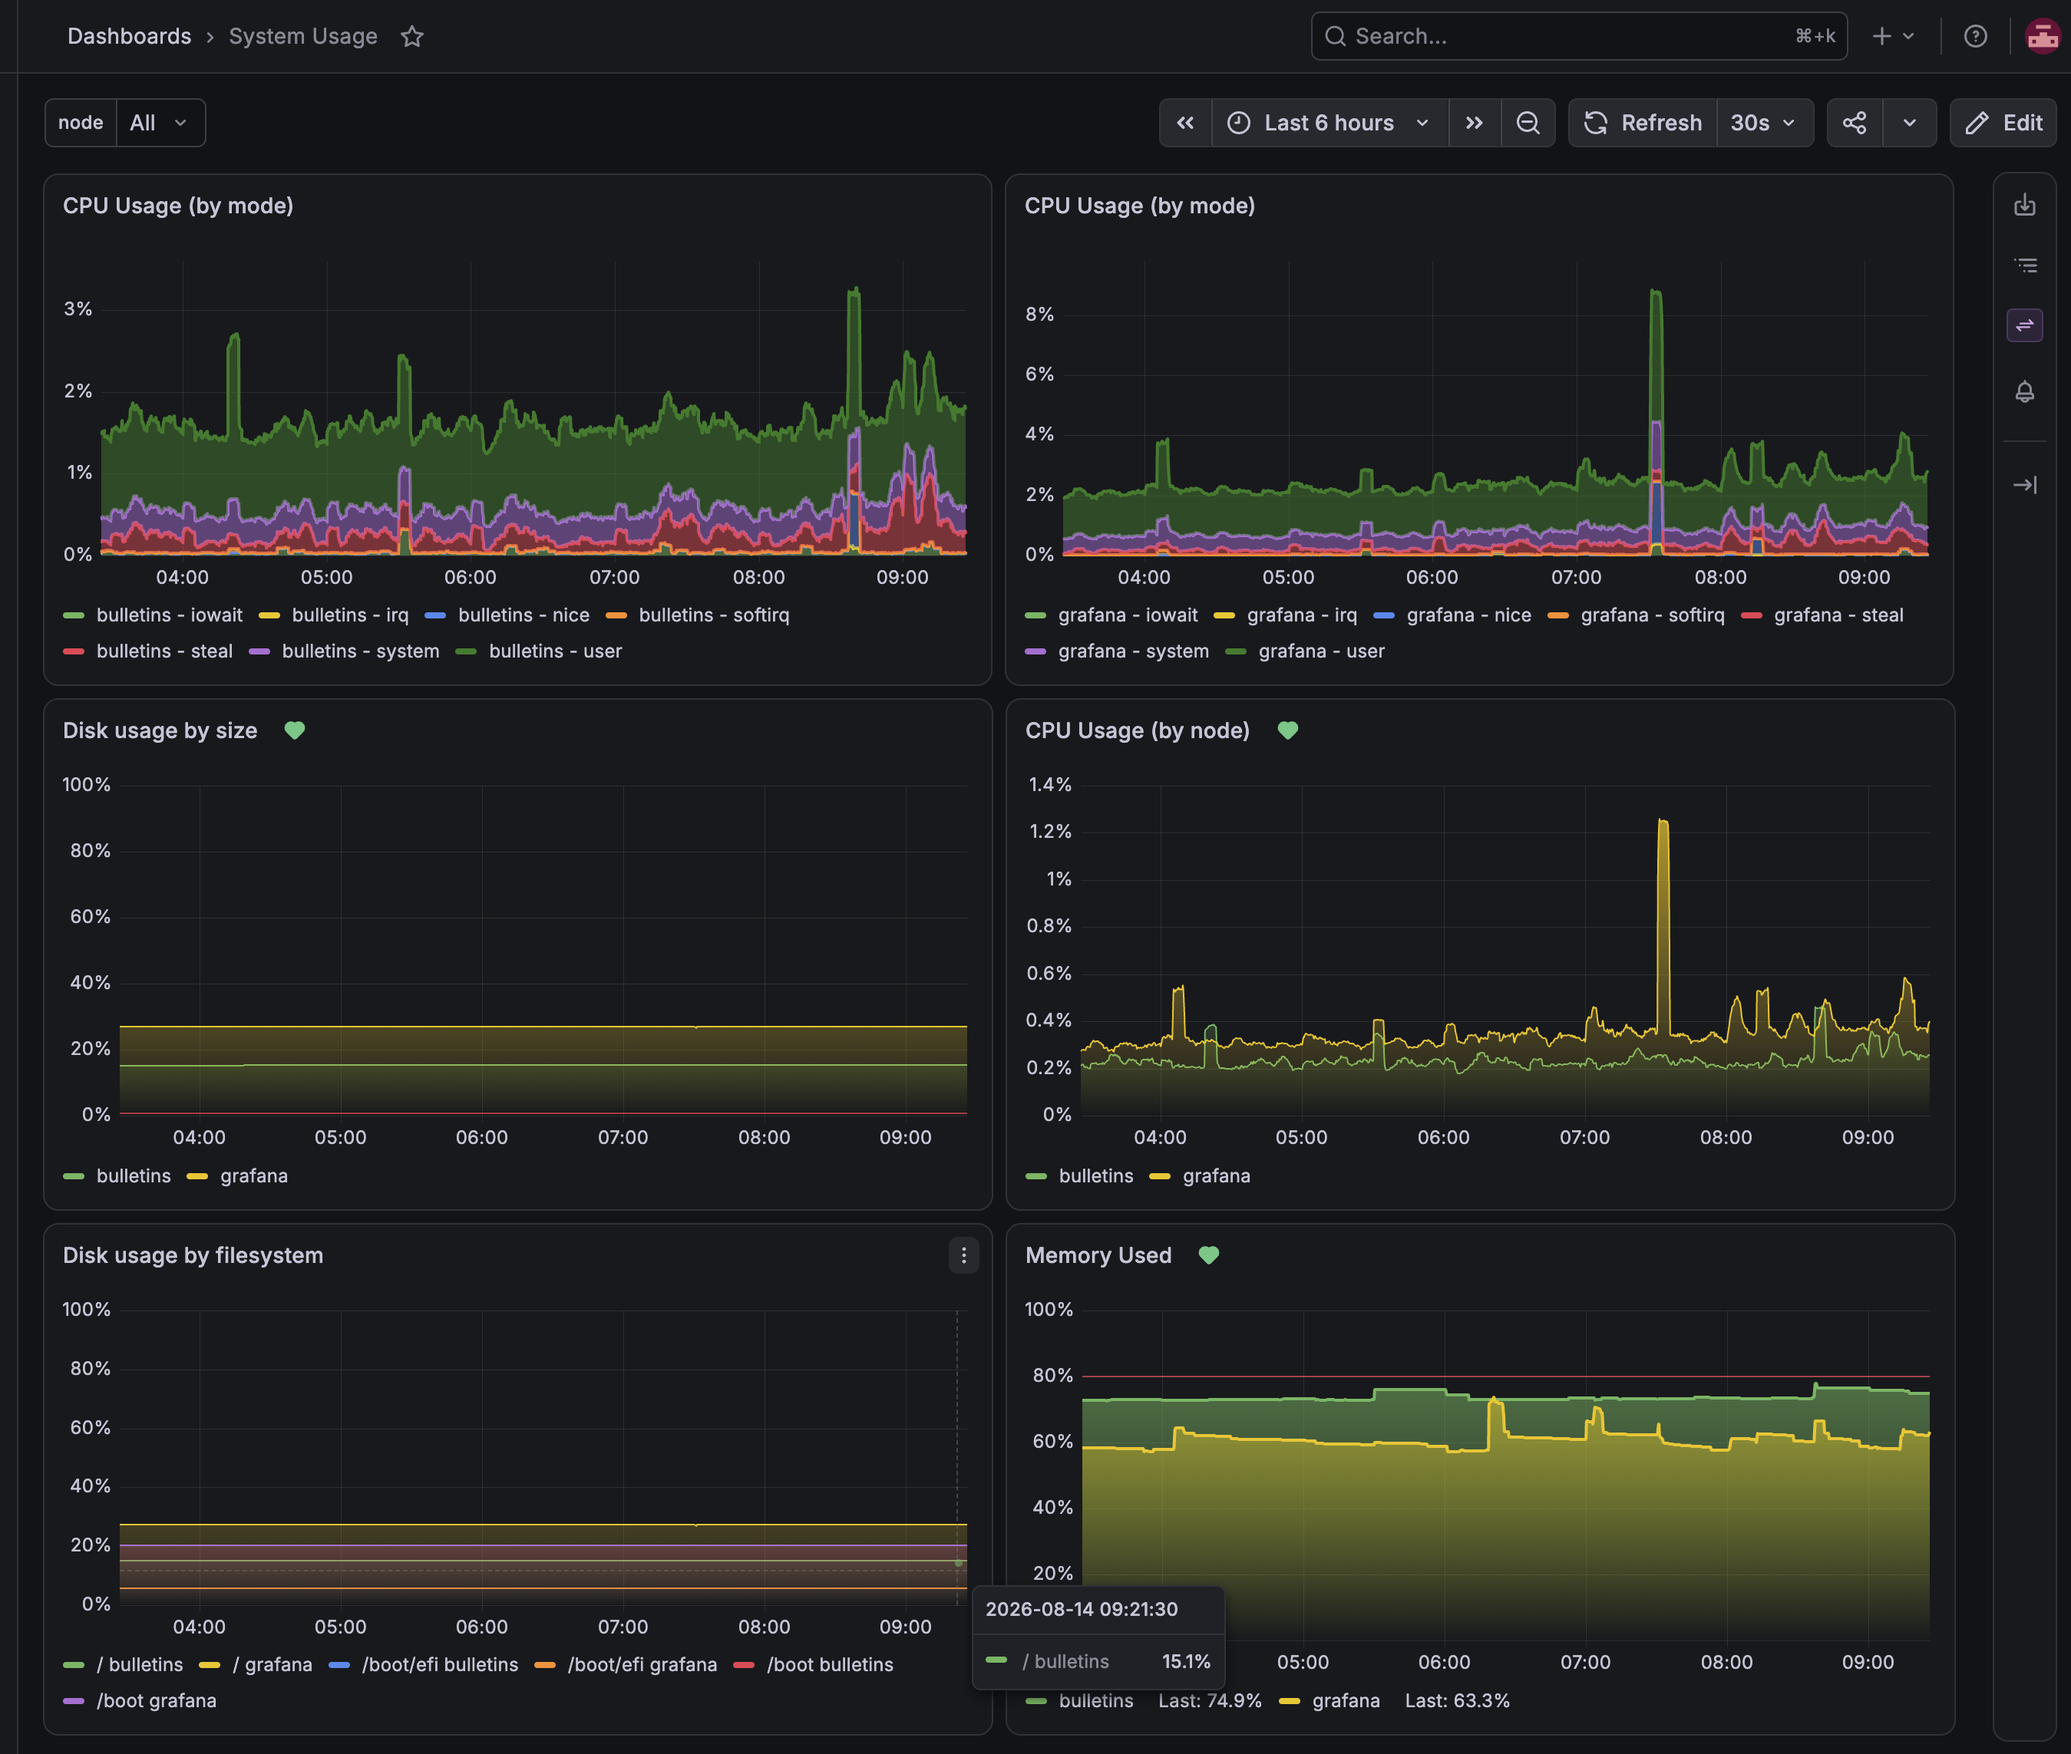
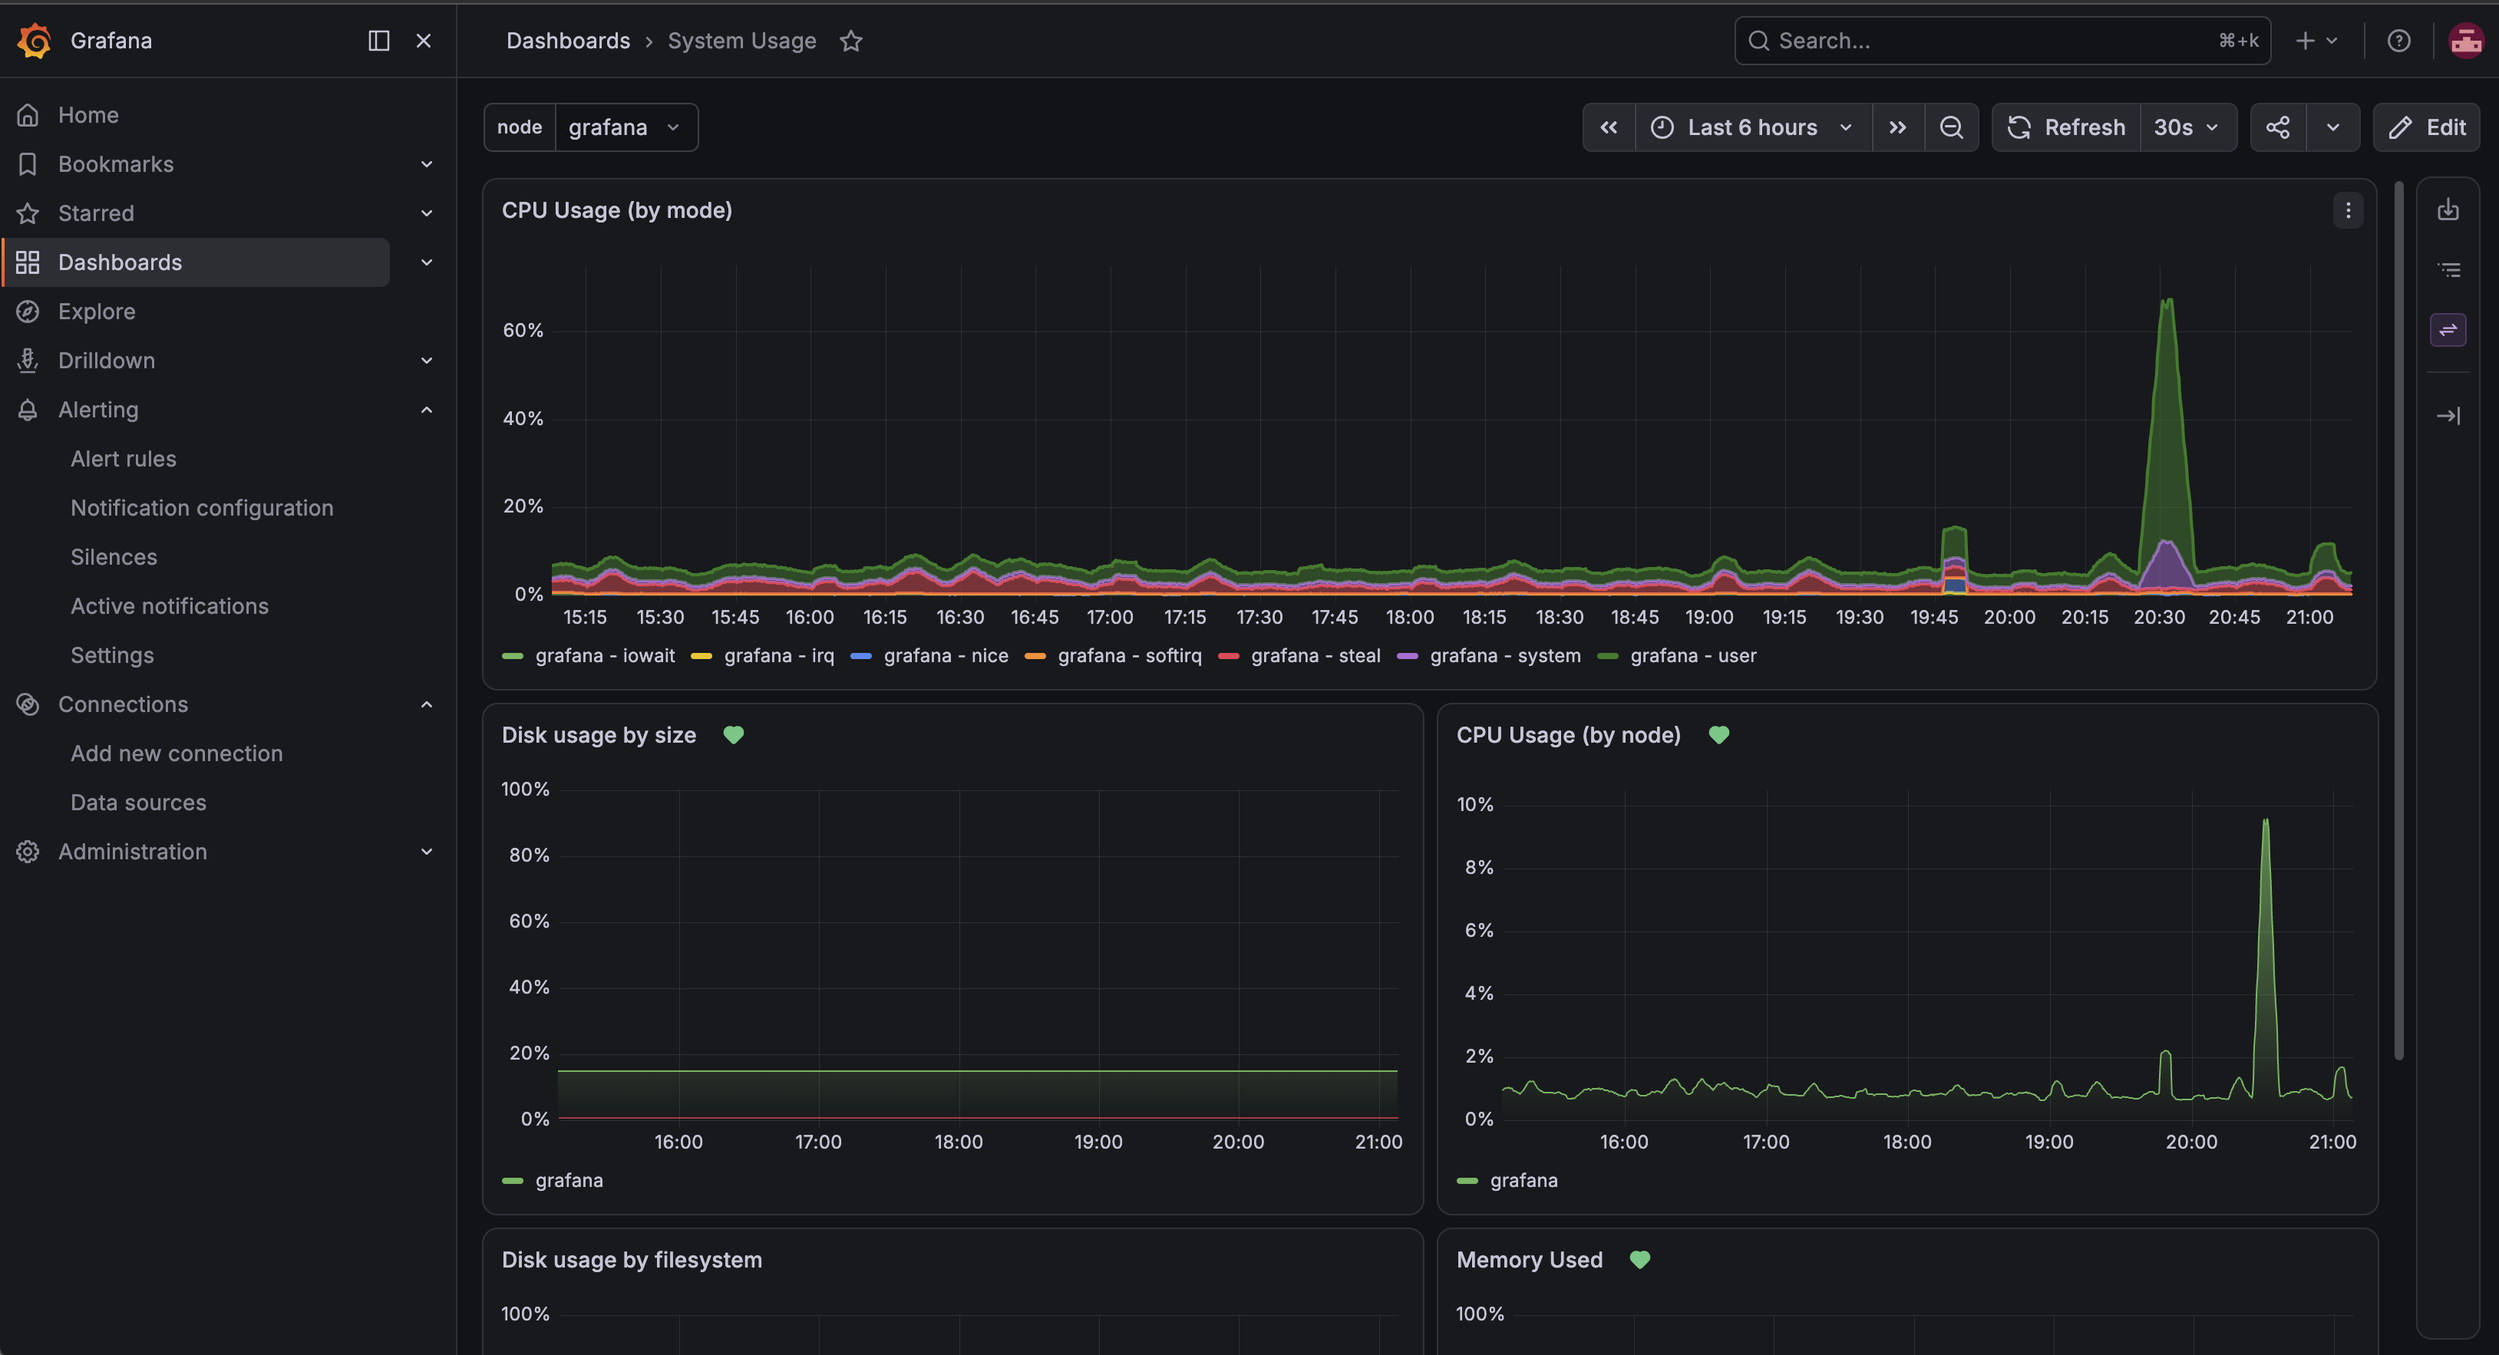
docs(readme): refresh the screenshots and add alert rules and nginx rows

diff --git a/README.md b/README.md
@@ -136,6 +136,8 @@ Provisioned from `ansible/roles/grafana/files/dashboards/`, read-only in the UI.
 
 ![Bulletins App dashboard](assets/bulletins-app-dashboard.png)
 
+![Bulletins App dashboard, Nginx and Logs rows](assets/bulletins-nginx-dashboard.png)
+
 ### Logs
 
 Promtail on the application host ships nginx access and error logs and the application container's output to Loki, which
@@ -160,6 +162,8 @@ Rules are evaluated by Grafana and delivered to Telegram. Everything is provisio
 | `Disk usage by size`  | used disk above 80%                        | 5m  | High     |
 | `5xx Errors Rate`     | 5xx share of application requests above 3% | 1m  | High     |
 | `5xx Errors Count`    | more than 5 nginx 5xx responses in 5 min   | 1m  | High     |
+
+![Alert rules](assets/alert-rules.png)
 
 To trigger a test alert without touching the application, stop one exporter and wait about three minutes:
 
